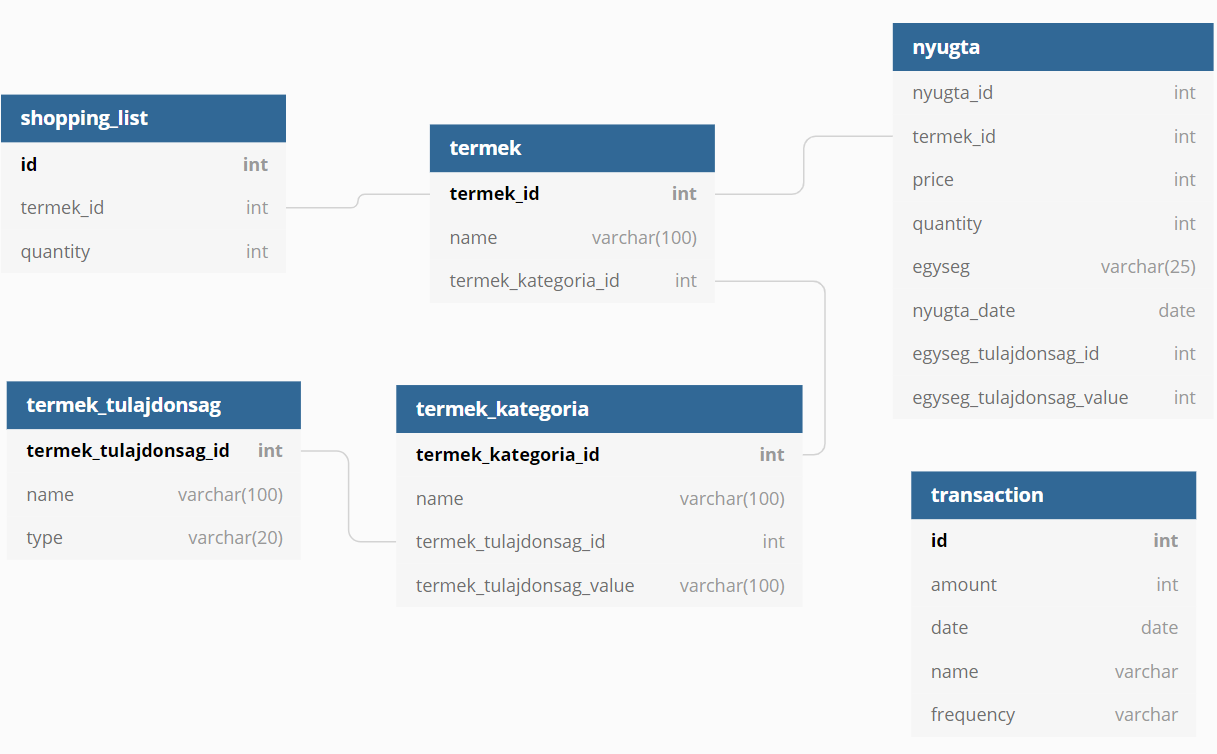
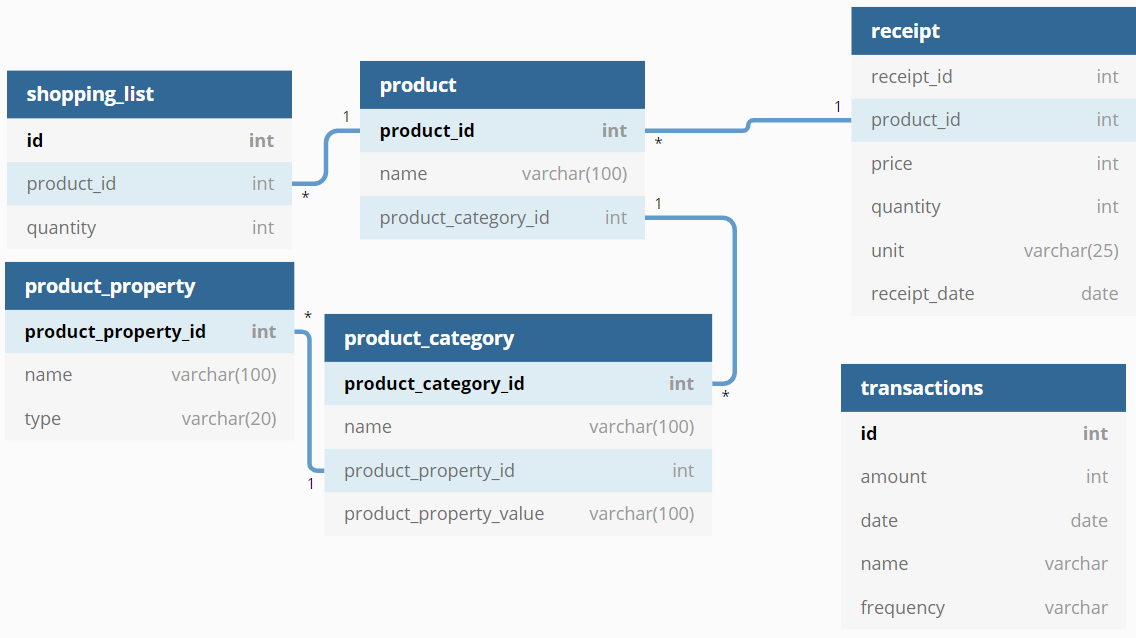
fix databse

diff --git a/documents/database.md b/documents/database.md
@@ -1,37 +1,33 @@
-Table termek_tulajdonsag {
-  termek_tulajdonsag_id int PK
+Table product_property {
+  product_property_id int PK
   name varchar(100)
   type varchar(20)
 }
 
-Table termek_kategoria {
-  termek_kategoria_id int PK
+Table product_category {
+  product_category_id int PK
   name varchar(100)
-  termek_tulajdonsag_id int
-  termek_tulajdonsag_value varchar(100)
+  product_property_id int
+  product_property_value varchar(100)
 }
 
-Table termek { 
- termek_id int PK 
+Table product { 
+ product_id int PK 
  name varchar(100)
- termek_kategoria_id int
+ product_category_id int
  
 }
 
-Table nyugta {
-  nyugta_id int 
-  termek_id int 
-  //nyugta_id + termek_id PK
+Table receipt {
+  receipt_id int 
+  product_id int 
   price int
   quantity int
-  egyseg varchar(25)
-  
-  nyugta_date date
-  egyseg_tulajdonsag_id int
-  egyseg_tulajdonsag_value int
+  unit varchar(25)
+  receipt_date date
 }
 
-Table transaction {
+Table transactions {
   id int PK
   amount int 
   date date
@@ -41,15 +37,14 @@ Table transaction {
 
 Table shopping_list { 
  id int PK 
- termek_id int
+ product_id int
  quantity int
- 
 }
 
-Ref: termek_tulajdonsag.termek_tulajdonsag_id >  termek_kategoria.termek_tulajdonsag_id 
+Ref: product_property.product_property_id >  product_category.product_property_id 
 
-Ref:termek_kategoria.termek_kategoria_id > termek.termek_kategoria_id
+Ref:product_category.product_category_id > product.product_category_id
 
-Ref: termek.termek_id > nyugta.termek_id
+Ref: product.product_id > receipt.product_id
 
-Ref: shopping_list.termek_id > termek.termek_id
+Ref: shopping_list.product_id > product.product_id
